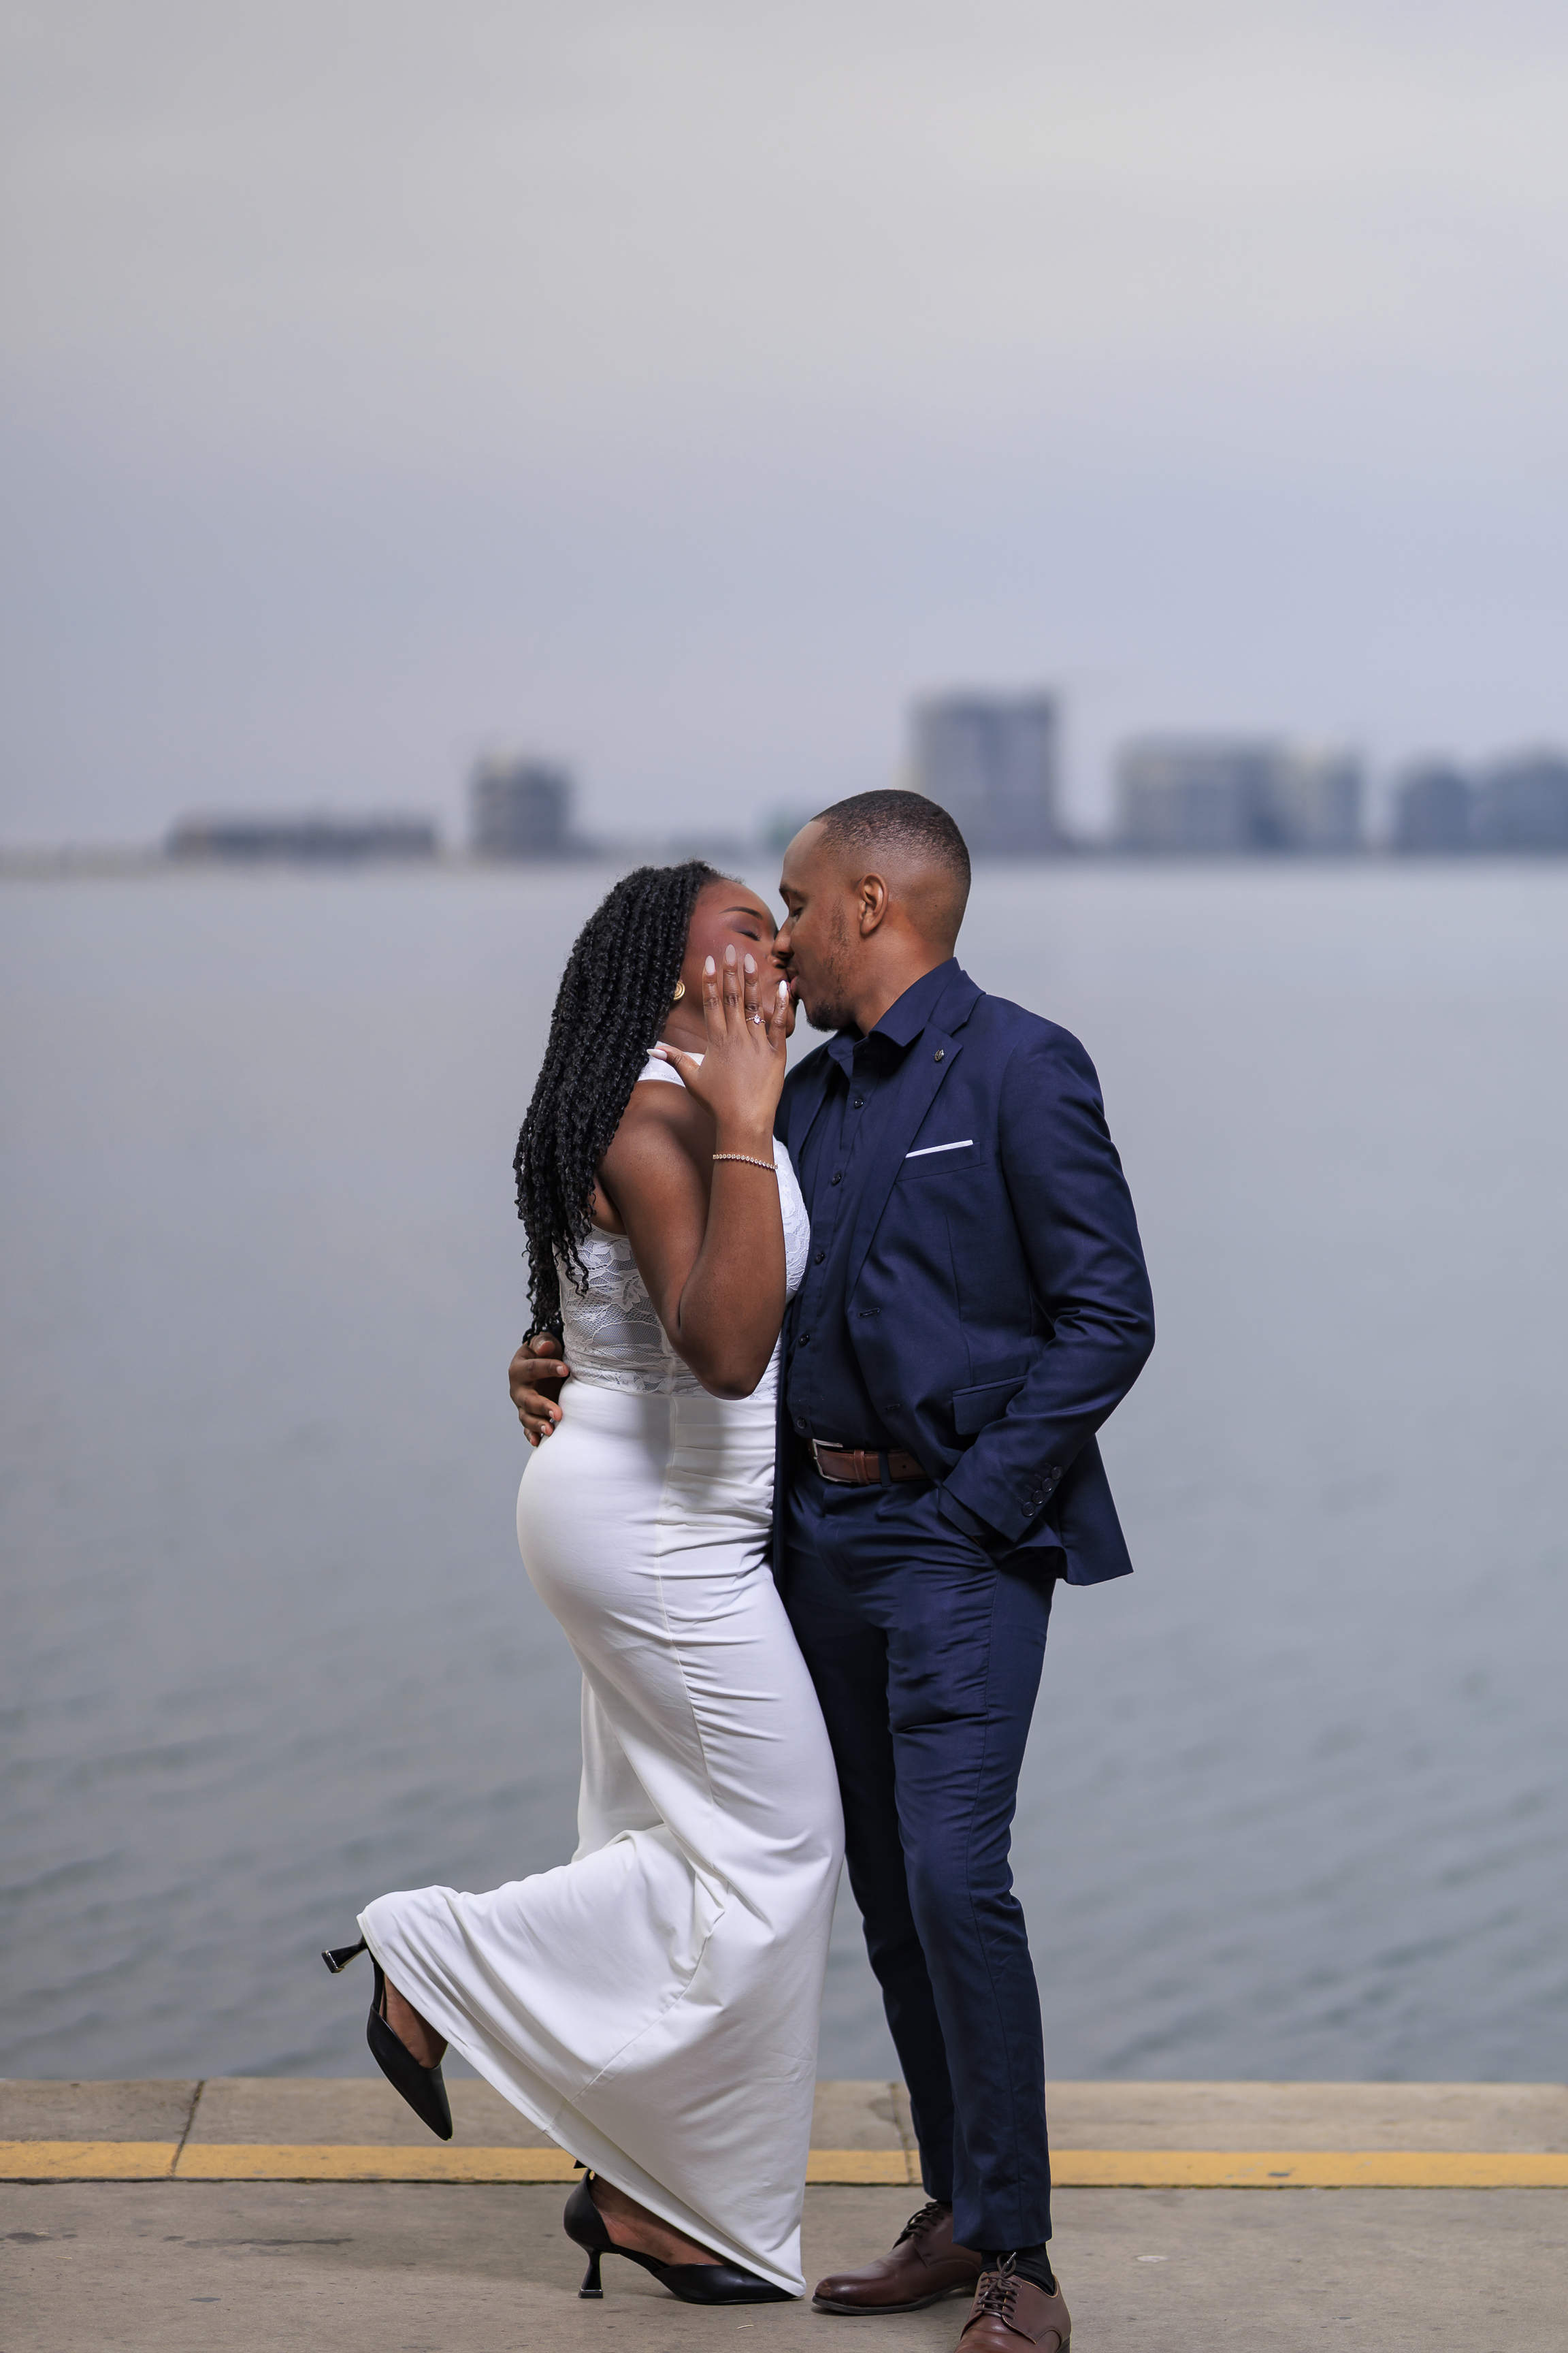
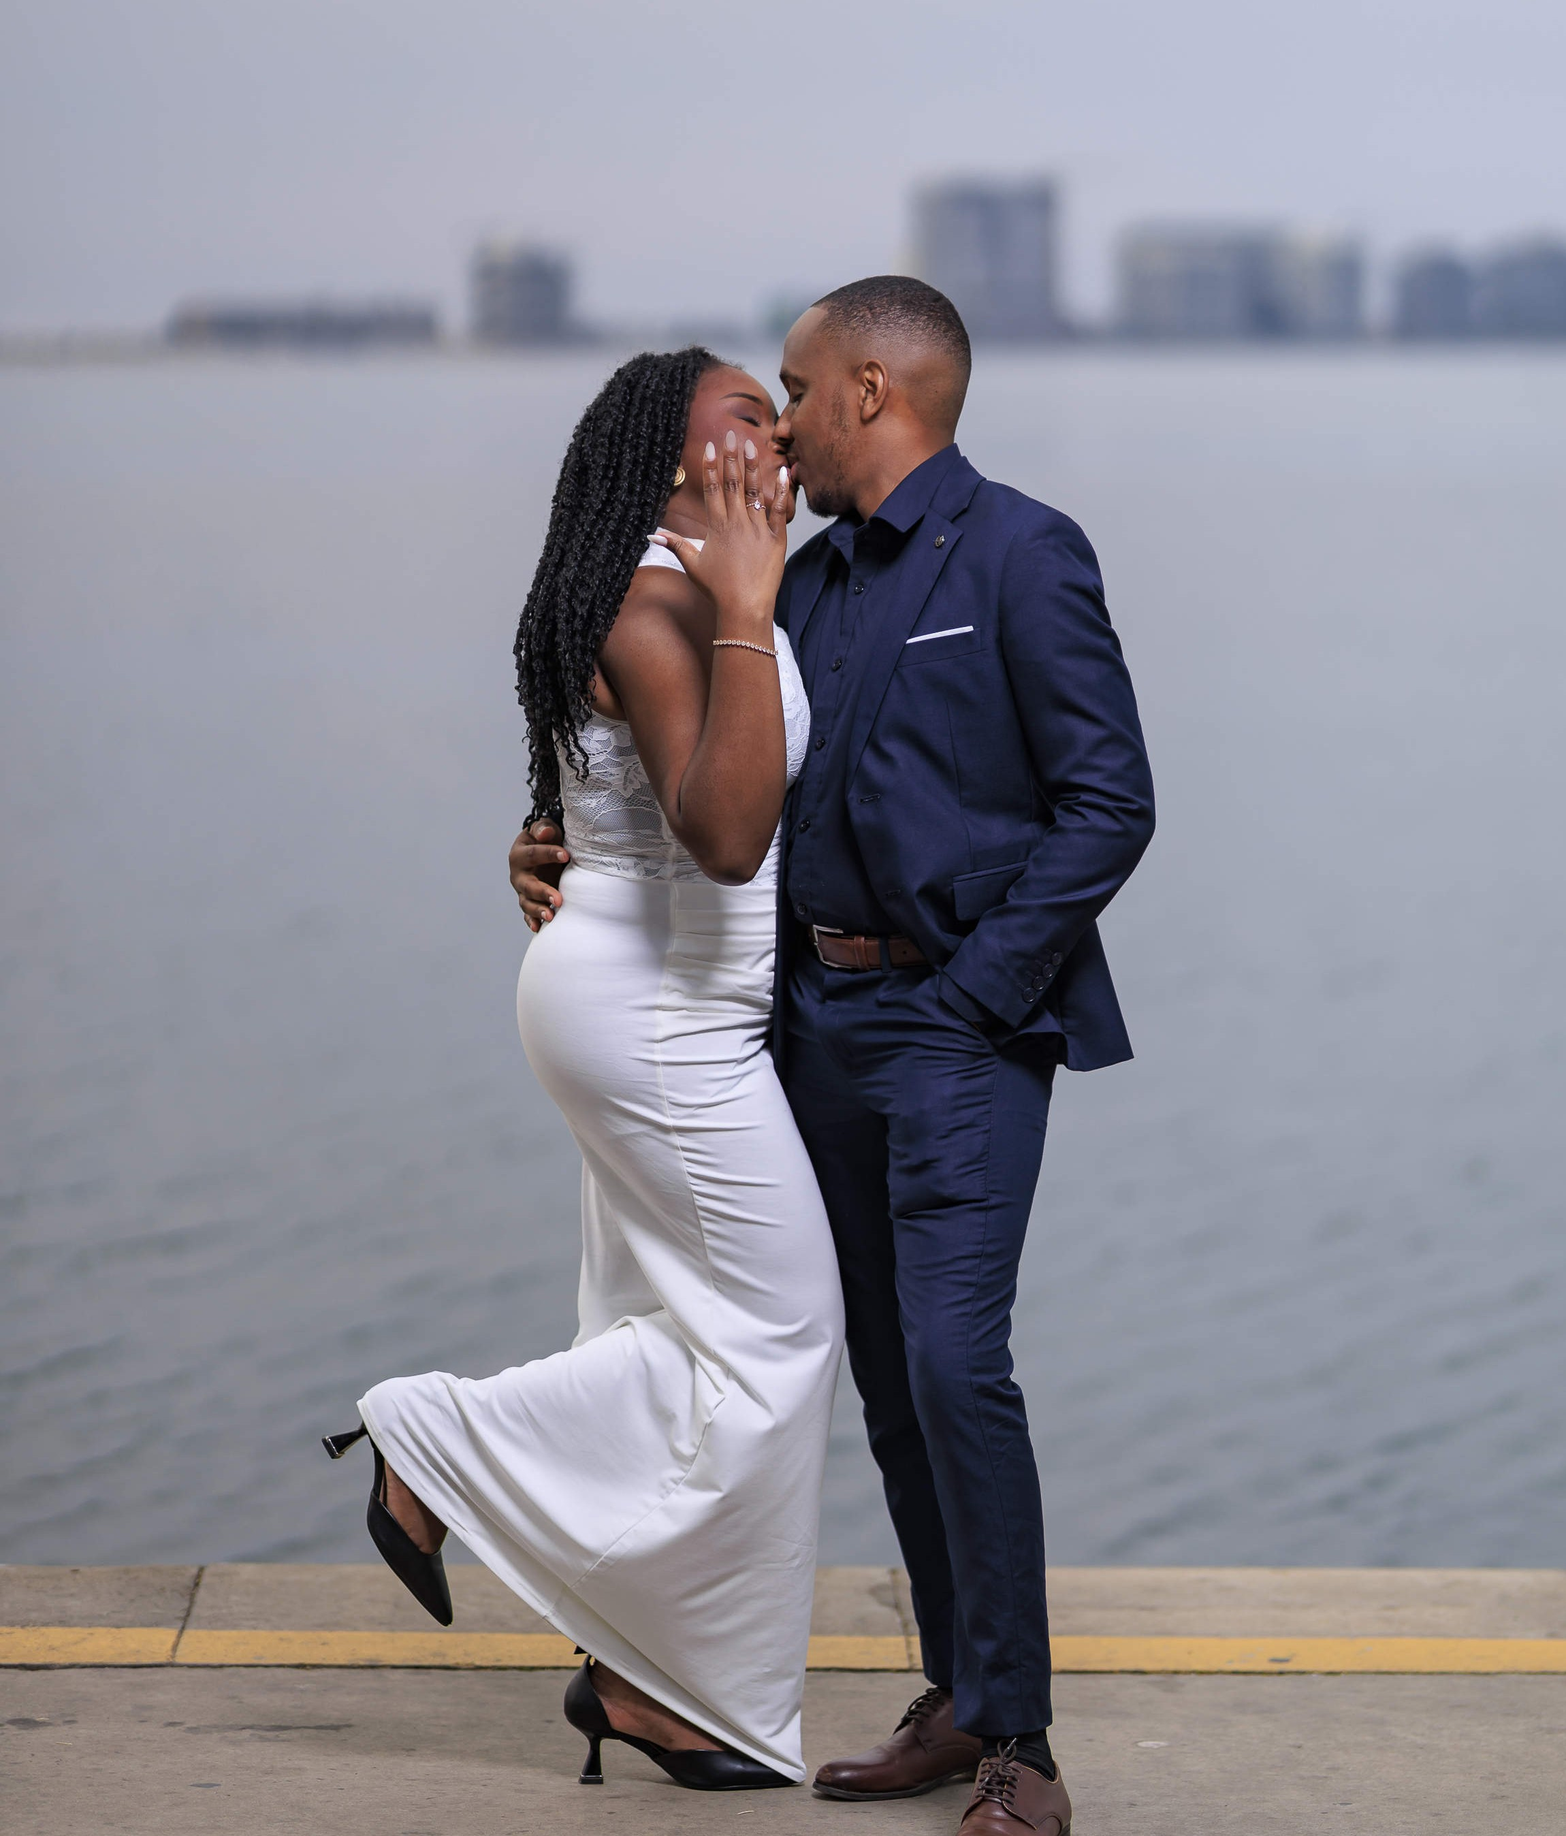
chore: changes on the images of the journey and the text

diff --git a/index.html b/index.html
@@ -3,8 +3,8 @@
 <head>
 <meta charset="UTF-8">
 <meta name="viewport" content="width=device-width, initial-scale=1.0">
-<title>Eufránio &amp; Creuma | Vamos Casar</title>
-<meta name="description" content="Website oficial do casamento de Eufránio & Creuma — 27 de Novembro, Luanda, Angola.">
+<title>Eufránio Diogo &amp; Creuma Kuzola | Vamos Casar</title>
+<meta name="description" content="Website oficial do casamento do Eufránio Diogo & da Creuma Kuzola — 27 de Novembro, Luanda, Angola.">
 
 <!-- Google Fonts: Cormorant Garamond (display), Parisienne (script/signature), Jost (body) -->
 <link rel="preconnect" href="https://fonts.googleapis.com">
@@ -39,7 +39,7 @@
   <div class="splash-inner">
     <p class="splash-eyebrow eyebrow">Vamos nos casar</p>
     <div class="splash-ring">E&amp;C</div>
-    <h1 class="splash-names">Eufránio<span class="amp">&amp;</span>Creuma</h1>
+    <h1 class="splash-names">Eufránio Diogo<span class="amp">&amp;</span>Creuma Kuzola</h1>
     <button class="splash-cta" id="splash-enter" type="button">
       <svg viewBox="0 0 24 24" fill="none" stroke="currentColor" stroke-width="1.4"><path d="M9 18V6l8 6-8 6Z"/></svg>
       Entrar
@@ -89,14 +89,14 @@
   <div class="sub_hero_diva">
     <div class="hero__content reveal">
     <p class="eyebrow">Vamos casar</p>
-    <h1 class="hero__title">Eufránio <span class="amp">&amp;</span> Creuma</h1>
-    <p class="hero__text">Estamos a escrever o capítulo mais bonito das nossas vidas e gostaríamos muito que fizesses parte deste momento inesquecível.</p>
+    <h1 class="hero__title">Eufránio <span class="amp">&amp;</span> Creuma </h1>
+    <p class="hero__text">Estamos a escrever o capítulo mais bonito das nossas vidas e da nossa história. E gostaríamos muito que fizesses parte deste momento inesquecível para nós!</p>
 
     <div class="hero__date">
       <span class="hero__date-icon">
         <svg style="color: white;" width="18" height="18" viewBox="0 0 24 24" fill="none" stroke="currentColor" stroke-width="1.5"><rect x="3" y="5" width="18" height="16" rx="2"/><path d="M8 3v4M16 3v4M3 10h18"/></svg>
       </span>
-      27 de Novembro, 2026 — Luanda, Angola
+      27 de Novembro, 2026 (Sexta-feira) — Luanda, Angola
         <audio id="bgMusic" loop autoplay>
           <source src="./resources/audio/day_after_day_1.mp3" type="audio/mpeg">
         </audio>
@@ -130,13 +130,13 @@
 
 <!-- ================= NOSSA HISTÓRIA ================= -->
  <div class="join-path-section-main-container">
-          <p class="join-path-section-text">Junte-se a nós na celebração de mais passo<br>nesta nossa caminhada</p>
+          <p class="join-path-section-text">Junte-se a nós para celebrar dois corações que se unem, <br> para construir uma vida e uma família</p>
  <section class="join-path-section">
 
-  <img src="./resources/imgs/image_3.jpg" alt="" class="join-path-section-img join-path-section-img-1">
+  <img src="./resources/imgs/image_22.jpg" alt="" class="join-path-section-img join-path-section-img-1">
    <div class="main-road-div-container">
    </div>
-    <img src="./resources/imgs/image_5.jpg" alt="" class="join-path-section-img join-path-section-img-2">
+    <img src="./resources/imgs/image_18.jpg" alt="" class="join-path-section-img join-path-section-img-2">
  </section>
  </div>
 
@@ -165,7 +165,7 @@
     <div class="historia__text">
       <span class="historia__mark">01</span>
       <h3>Como tudo começou</h3>
-      <p>Foi em 2018 na Universidade Católica que os nossos caminhos cruzaram, primeiro colegas, depois amigos, depois delegado e sub-delegada e depois as coisas começaram a mudar.</p>
+      <p>Foi em 2018 na Universidade Católica que os nossos caminhos cruzaram, primeiro como colegas, posteriormente como amigos, delegado e sub-delegada e depois de algum tempo as coisas começaram a mudar...</p>
       
     </div>
   </div>
@@ -177,7 +177,7 @@
     <div class="historia__text">
       <span class="historia__mark">02</span>
       <h3>A caminhada</h3>
-      <p>Entre sorrisos, desafios e sonhos partilhados, o amor foi crescendo devagar e para sempre. Um joelho no chão, um "sim" sem hesitação, e a certeza de que este era o início de tudo isso em 2021.</p>
+      <p>Entre sorrisos, desafios, projectos e sonhos partilhados, o amor foi crescendo devagar e para sempre. Em 2021 um pedido de namoro deu início a nossa jornada. Saímos de uma paixão ardente, para um amor consciente, presente e paciente. </p>
     </div>
   </div>
 
@@ -188,7 +188,7 @@
     <div class="historia__text">
       <span class="historia__mark">03</span>
       <h3>Hoje</h3>
-      <p>Deus escreveu um amor que nos trouxe até aqui. E agora, rodeados das pessoas que amamos, vamos viver o nosso para sempre — e adorávamos que estivesses lá.</p>
+      <p>Deus escreveu o amor que nos trouxe até aqui. E agora, rodeados das pessoas que amamos, vamos viver o nosso para sempre, e adorávamos que estivesses presente.</p>
     </div>
   </div>
 </section>
@@ -206,7 +206,7 @@
         <svg viewBox="0 0 24 24" fill="none" stroke="currentColor" stroke-width="1.4"><rect x="3" y="5" width="18" height="16" rx="2"/><path d="M8 3v4M16 3v4M3 10h18"/></svg>
       </div>
       <h4>Data</h4>
-      <p>27 de Novembro<br>2026</p>
+      <p>27 de Novembro<br>2026 (Sexta-feira)</p>
     </div>
     
 
@@ -226,7 +226,7 @@
         <svg viewBox="0 0 24 24" fill="none" stroke="currentColor" stroke-width="1.4"><path d="M8 3l4 3 4-3 3 4-3 2 1 11H7L8 9 5 7z"/></svg>
       </div>
       <h4>Dress Code</h4>
-      <p>Social Chic<br><b>Mulheres: </b>Não usar branco<br><b>Homens: </b>Usar fato escuro</p>
+      <p>Social Chic<br><b>Mulheres: </b>Não usar branco, nem creme<br><b>Homens: </b>Usar fato escuro</p>
     </div>
 
    <div class="card">
@@ -254,17 +254,17 @@
   <div class="gallery-grid reveal" id="galleryGrid">
     <!-- 12 fotos placeholder — substitui o src por fotos reais do casal -->
     <div class="gallery-item gallery-item--tall"><img src="resources/imgs/image_12.jpg" loading="lazy" alt="Foto do casal 1"></div>
-    <div class="gallery-item"><img src="resources/imgs/image_1.jpg" loading="lazy" alt="Foto do casal 2"></div>
-    <div class="gallery-item"><img src="resources/imgs/image_2.jpg" loading="lazy" alt="Foto do casal 3"></div>
-    <div class="gallery-item gallery-item--tall"><img src="resources/imgs/image_3.jpg" loading="lazy" alt="Foto do casal 4"></div>
+    <div class="gallery-item"><img src="resources/imgs/image_25.jpg" loading="lazy" alt="Foto do casal 2"></div>
+    <div class="gallery-item"><img src="resources/imgs/image_21.jpg" loading="lazy" alt="Foto do casal 3"></div>
+    <div class="gallery-item gallery-item--tall"><img src="resources/imgs/image_23.jpg" loading="lazy" alt="Foto do casal 4"></div>
     <div class="gallery-item"><img src="resources/imgs/image_22.jpg" loading="lazy" alt="Foto do casal 5"></div>
-    <div class="gallery-item gallery-item--tall"><img src="resources/imgs/image_5.jpg" loading="lazy" alt="Foto do casal 6"></div>
+    <div class="gallery-item gallery-item--tall"><img src="resources/imgs/image_11.jpg" loading="lazy" alt="Foto do casal 6"></div>
     <div class="gallery-item"><img src="resources/imgs/image_6.jpg" loading="lazy" alt="Foto do casal 7"></div>
-    <div class="gallery-item"><img src="resources/imgs/image_7.jpg" loading="lazy" alt="Foto do casal 8"></div>
+    <div class="gallery-item"><img src="resources/imgs/image_5.jpg" loading="lazy" alt="Foto do casal 8"></div>
     <div class="gallery-item"><img src="resources/imgs/image_8.jpg" loading="lazy" alt="Foto do casal 9"></div>
     <div class="gallery-item"><img src="resources/imgs/image_9.jpg" loading="lazy" alt="Foto do casal 10"></div>
-    <div class="gallery-item"><img src="resources/imgs/image_10.jpg" loading="lazy" alt="Foto do casal 11"></div>
-    <div class="gallery-item"><img src="resources/imgs/image_11.jpg" loading="lazy" alt="Foto do casal 12"></div>
+    <div class="gallery-item"><img src="resources/imgs/image_7.jpg" loading="lazy" alt="Foto do casal 11"></div>
+    <div class="gallery-item"><img src="resources/imgs/image_10.jpg" loading="lazy" alt="Foto do casal 12"></div>
         <div class="gallery-item"><img src="resources/imgs/image_12.jpg" loading="lazy" alt="Foto do casal 7"></div>
     <div class="gallery-item"><img src="resources/imgs/image_13.jpg" loading="lazy" alt="Foto do casal 8"></div>
     <div class="gallery-item"><img src="resources/imgs/image_14.jpg" loading="lazy" alt="Foto do casal 9"></div>
@@ -287,7 +287,8 @@
   <div class="section-head reveal">
     <p class="eyebrow eyebrow--center">Um gesto de carinho</p>
     <h2 class="section-title">Contribua para o Nosso Sonho</h2>
-    <p class="contribuir__intro">A vossa presença já é o maior presente que podemos receber. Mas sabemos que muitos de vós perguntaram como podem ajudar — por isso deixamos aqui esta forma simples e carinhosa de fazerem parte do nosso grande dia.</p>
+    <p class="contribuir__intro">A tua presença é o nosso maior presente. Mas, para quem desejar contribuir para a realização dos nossos sonhos, deixamos aqui uma forma simples e especial de o fazer.
+</p>
   </div>
 
   <div class="contribuir__cards reveal">
@@ -321,12 +322,12 @@
   <div class="section-head reveal">
     <p class="eyebrow eyebrow--center">Não percas este momento</p>
     <h2 class="section-title">Confirme a Sua Presença</h2>
-    <p class="rsvp__intro">Preencha o formulário abaixo — a confirmação será enviada diretamente para o nosso WhatsApp.</p>
+    <p class="rsvp__intro">Preencha o formulário abaixo — a confirmação será enviada directamente para o nosso WhatsApp.</p>
   </div>
 
   <form class="rsvp__form glass reveal" id="rsvpForm">
     <div class="field">
-      <label for="f-nome">Nome Convidado(s)</label>
+      <label for="f-nome">Nome do(s) Convidado(s)</label>
       <input type="text" id="f-nome" name="nome" placeholder="O teu nome" required>
     </div>
 
@@ -337,7 +338,7 @@
 
     <div class="field-row">
       <div class="field">
-        <label for="f-presenca">Confirmas presença?</label>
+        <label for="f-presenca">Confirmas a tua presença?</label>
         <select id="f-presenca" name="presenca" required>
           <option value="Sim, estarei presente">Sim, estarei presente</option>
           <option value="Infelizmente não poderei ir">Infelizmente não poderei ir</option>
@@ -353,7 +354,7 @@
 
     <button type="submit" class="btn btn--primary btn--lg btn--block">
       <svg width="18" height="18" viewBox="0 0 24 24" fill="currentColor" style="margin-right:8px;vertical-align:-3px"><path d="M12.04 2C6.58 2 2.13 6.45 2.13 11.91c0 1.75.46 3.46 1.32 4.96L2 22l5.25-1.38a9.9 9.9 0 004.79 1.22h.01c5.46 0 9.91-4.45 9.91-9.91 0-2.65-1.03-5.14-2.9-7.01A9.87 9.87 0 0012.04 2m0 1.67c2.22 0 4.3.87 5.87 2.44a8.23 8.23 0 012.42 5.85c0 4.56-3.71 8.27-8.28 8.27a8.3 8.3 0 01-4.22-1.15l-.3-.18-3.12.82.83-3.04-.2-.31a8.22 8.22 0 01-1.28-4.4c0-4.56 3.71-8.3 8.28-8.3M8.53 6.9c-.16 0-.43.06-.65.31-.22.24-.86.84-.86 2.05s.88 2.38 1 2.55c.13.16 1.7 2.72 4.2 3.71 2.07.83 2.49.66 2.94.62.45-.04 1.45-.59 1.65-1.16.2-.57.2-1.06.14-1.16-.06-.1-.23-.16-.48-.28-.25-.13-1.45-.72-1.68-.8-.22-.08-.39-.13-.55.13-.16.25-.63.8-.78.97-.14.16-.29.18-.54.06-.25-.13-1.05-.39-2-1.23-.74-.66-1.24-1.48-1.39-1.73-.14-.25-.02-.38.11-.51.11-.11.25-.29.38-.44.13-.14.17-.25.25-.41.08-.16.04-.31-.02-.44-.06-.13-.55-1.36-.78-1.86-.19-.44-.4-.4-.55-.4h-.4z"/></svg>
-      Enviar Confirmação via WhatsApp
+      Enviar a Confirmação via WhatsApp
     </button>
   </form>
 </section>
@@ -361,7 +362,7 @@
 <!-- ================= FOOTER ================= -->
 <footer class="footer">
   <div class="footer__amp amp">&amp;</div>
-  <p class="footer__thanks">Obrigado por fazer parte da nossa história.</p>
+  <p class="footer__thanks">Obrigado por fazer parte deste dia inesquecível para nós.</p>
   <p class="footer__sign">Com carinho,<br>Eufránio &amp; Creuma</p>
   <p class="footer__meta"279 . 11 . 2026 — Luanda, Angola</p>
 </footer>
